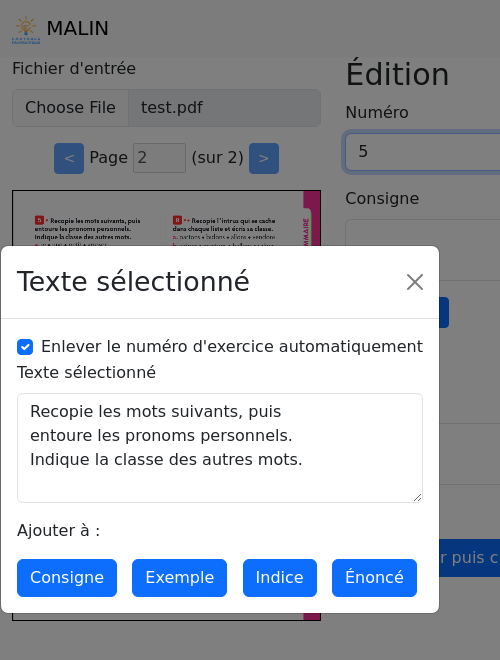
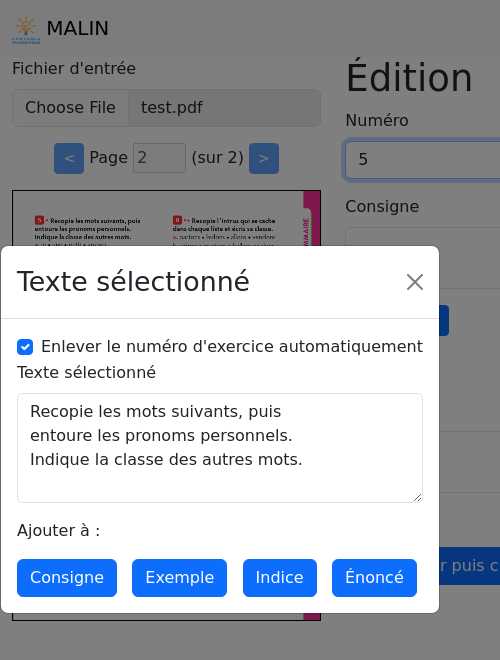
Fix 'h2' tag into 'h1'

Changed region(s): [[0.69, 0.0909, 1.0, 0.3333], [0.87, 0.8182, 1.0, 0.9091], [0.87, 0.4545, 0.9, 0.5152]]

diff --git a/frontend/src/views/PdfView.vue b/frontend/src/views/PdfView.vue
@@ -171,7 +171,7 @@ function ellipsis(s) {
     </div>
 
     <div class="col">
-      <h2>{{ $t('edition') }}</h2>
+      <h1>{{ $t('edition') }}</h1>
       <template v-if="pdfException !== null">
         <p>{{ $t('error.pdf') }}</p>
         <pre>{{ pdfException }}</pre>
@@ -214,7 +214,7 @@ function ellipsis(s) {
     </div>
 
     <div class="col">
-      <h2>{{ $t('visualization') }}</h2>
+      <h1>{{ $t('visualization') }}</h1>
       <p>({{ $t('not-yet-implemented') }})</p>
       <template v-if="mode !== 'list'">
         <!-- @todo Retrieve from the back-end -->
